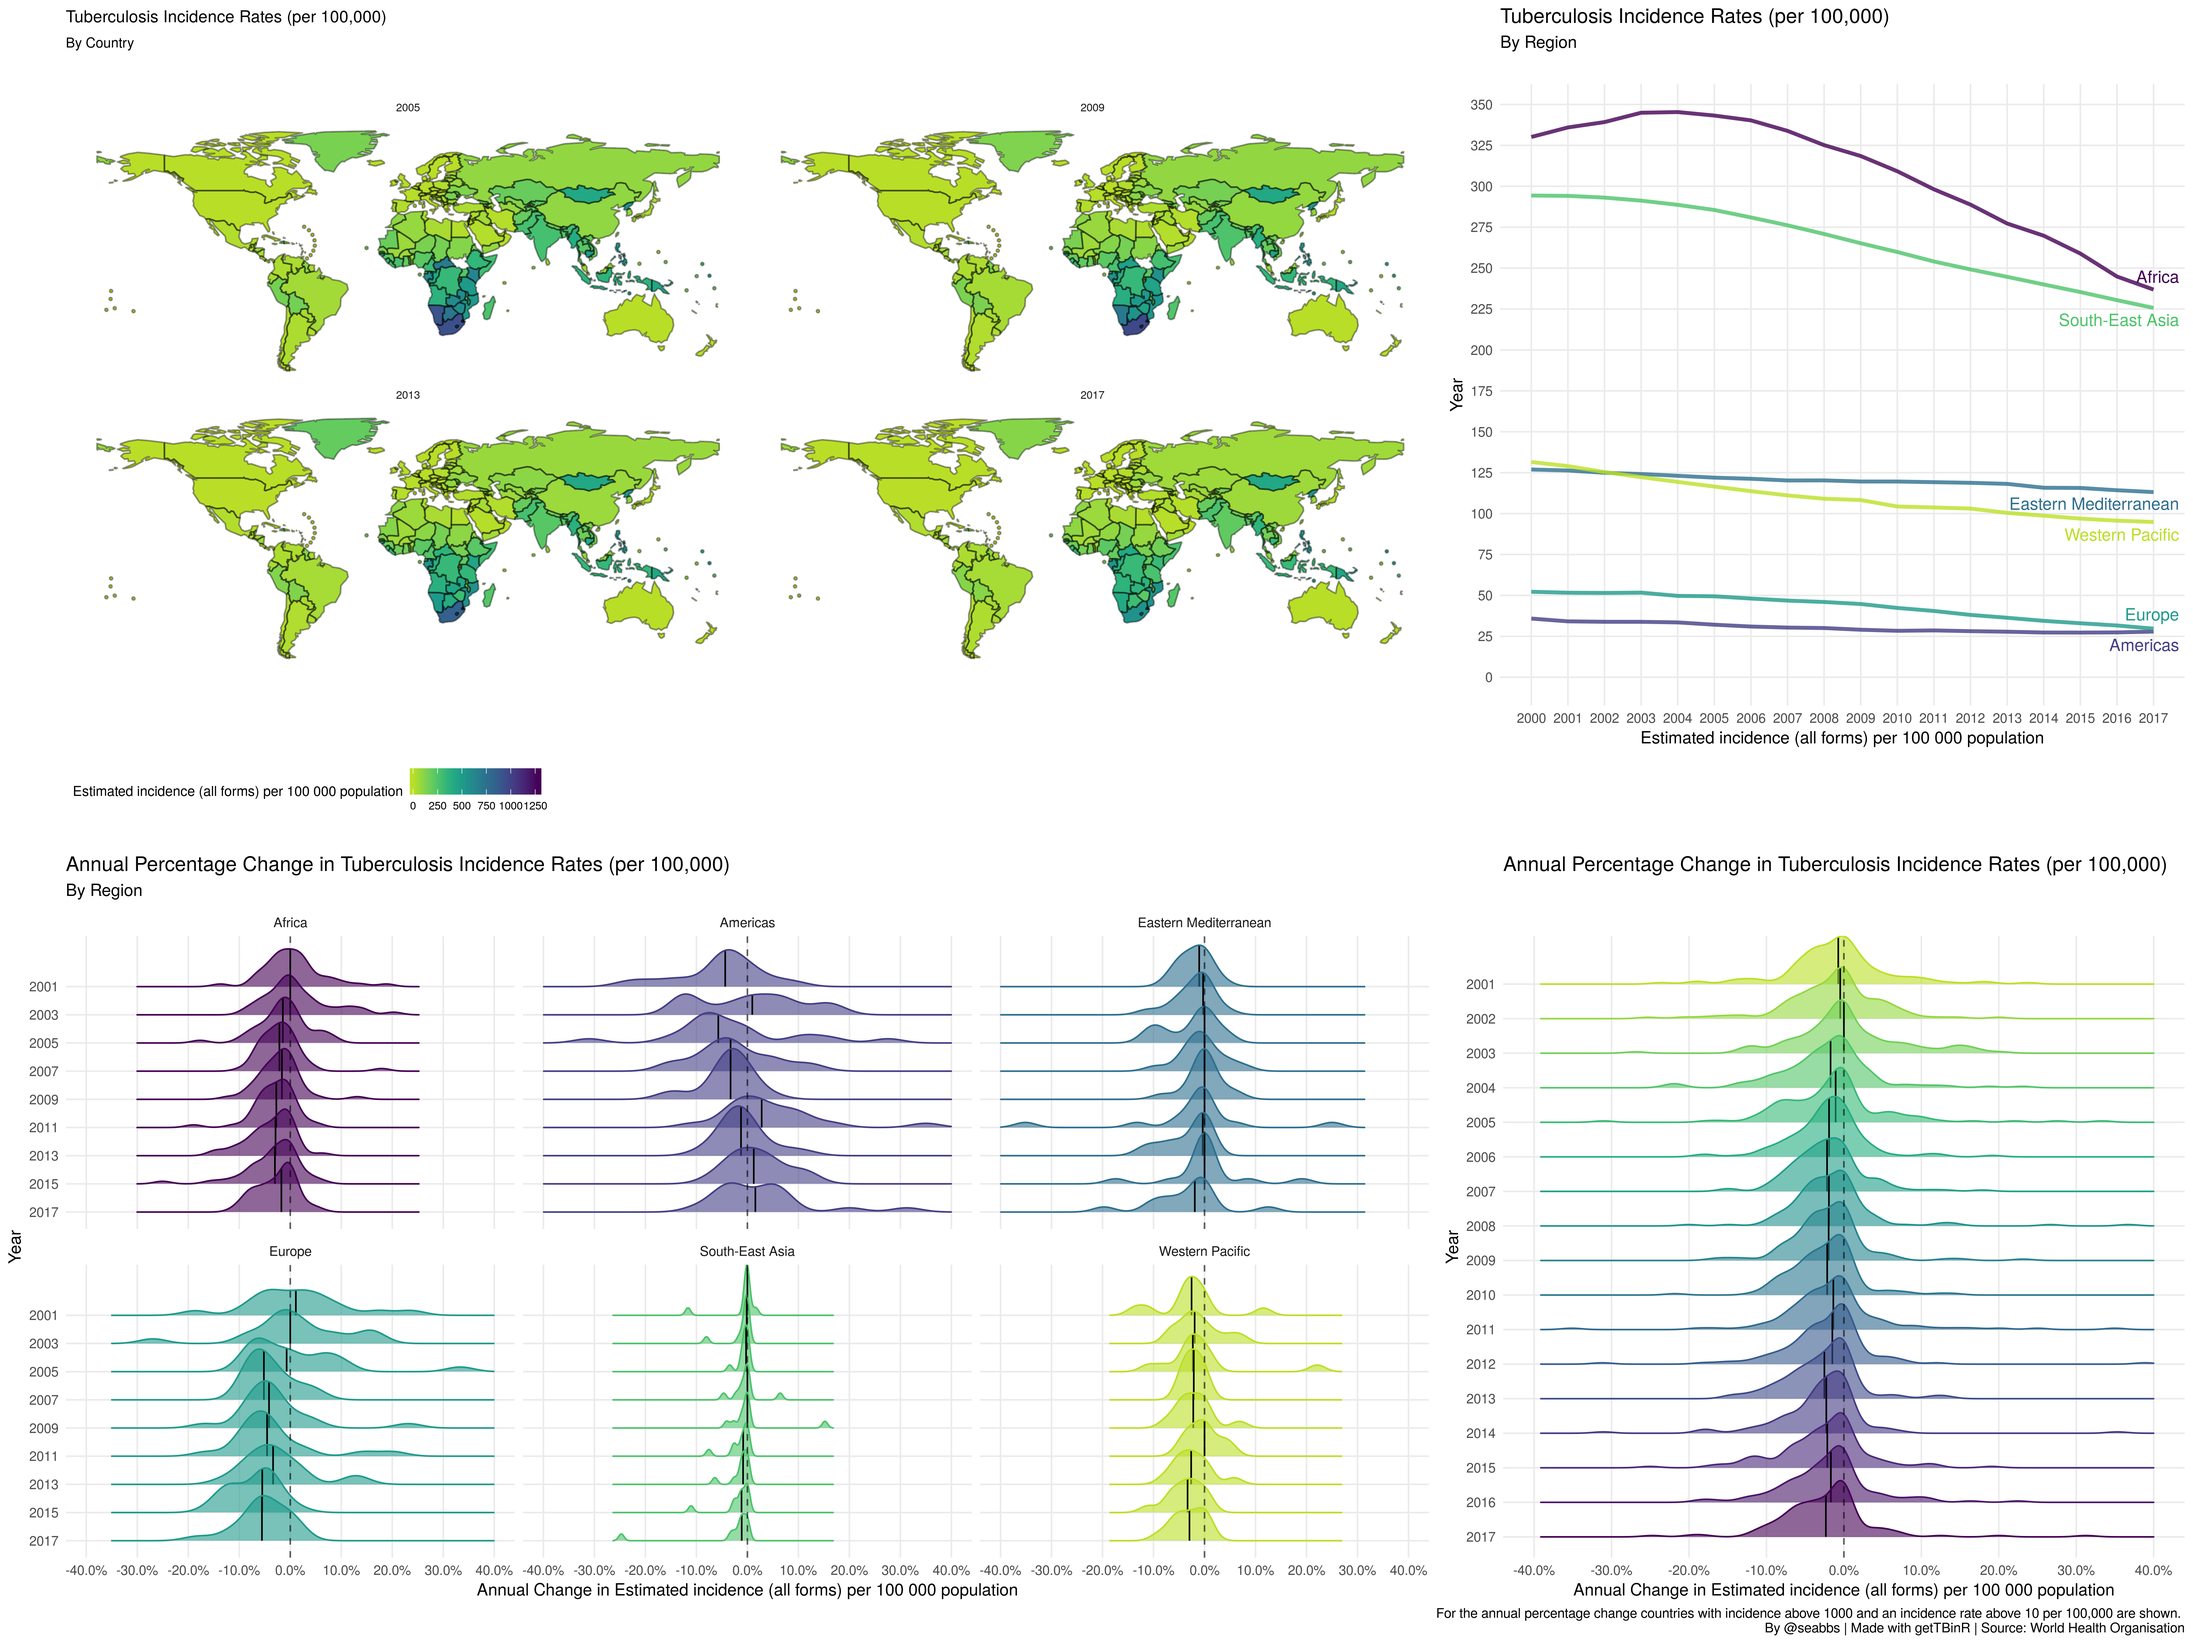
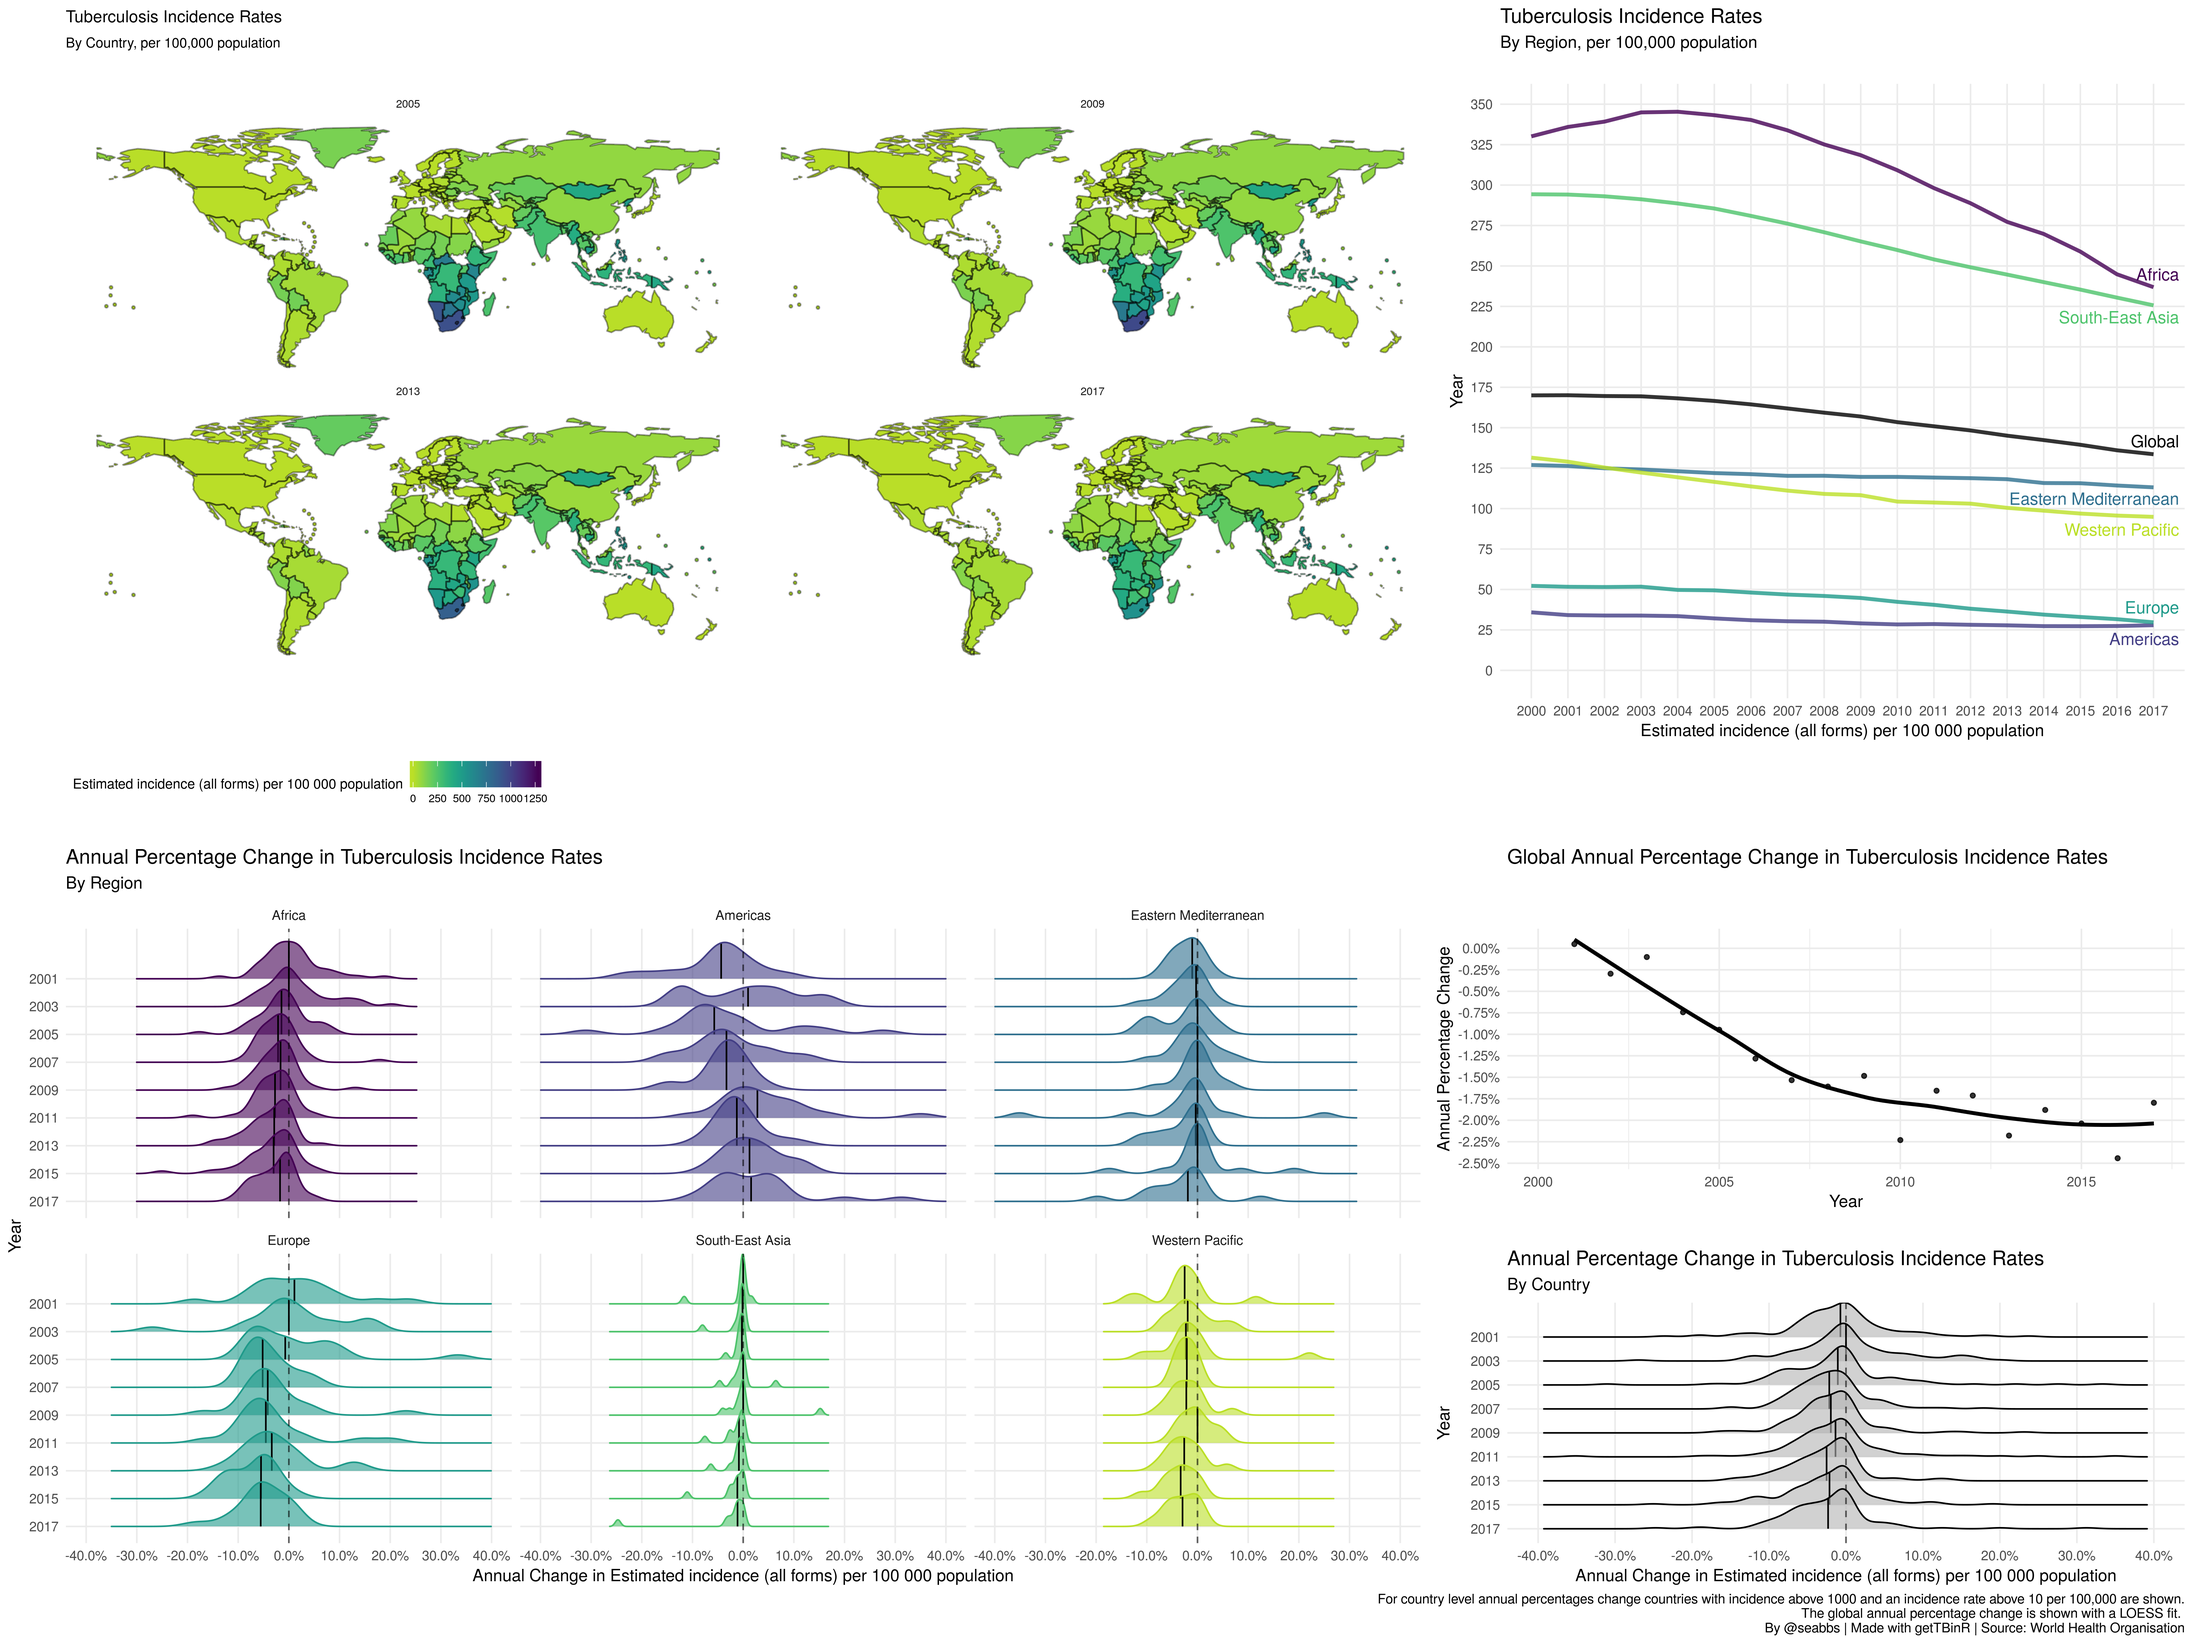
updated getTBinR update post with improved narrative and summary stats

diff --git a/content/post/2018-09-28-gettbinr-5-5.md b/content/post/2018-09-28-gettbinr-5-5.md
@@ -1,15 +1,17 @@
 ---
 title: getTBinR 0.5.5 now on CRAN - 2017 data.
 author: ~
-date: '2018-09-27'
+date: '2018-09-28'
 slug: gettbinr-5-5
 twitterImg: img/getTBinR/storyboard-5-5.png
-description: "getTBinR version 0.5.5 now with 2017 data, smarter defaults and better docs. What has changed in 2017?"
+description: "getTBinR version 0.5.5 now with 2017 data, smarter defaults and better docs. Over 10 million estimated cases of TB in 2017, with only a 1.8% decrease in incidence rates compared to 2016. Explore the data to see what else has changed!"
 categories: ["R"]
 tags: ["data analysis", "data visualisation", "rstats", "TB", "WHO", "getTBinR", "infectious disease"]
 ---
 
 [`getTBinR 0.5.5`](https://www.samabbott.co.uk/getTBinR/) is now on CRAN and should be available on a mirror near you shortly! This update is mainly about highlighting the availability of TB data for 2017, although some small behind the scenes changes were required to get the code set up going forward for yearly updates. A few more plotting options have been added, along with the corresponding tests (definitely the most exciting news). The full changelog is below along with a short example highlighting some of the changes in the 2017 data.
+
+The main message from the 2017 data is that in 2017 there were again over 10 million estimated TB cases globally with only a 1.8% decrease in incidence rates compared to 2016. Over the last 10 years progress has been made with an average of a 1.9% decrease in TB incidence rates year on year. However there is little evidence of an increase in the rate that TB incidence rates are falling, with incidence rates forecast to remain at over 100 per 100,000 for the next 10 years if progress is made at the same rate as in the last decade.
 
 ## Feature updates
 
@@ -25,7 +27,7 @@ tags: ["data analysis", "data visualisation", "rstats", "TB", "WHO", "getTBinR",
 
 ## Example: Changes in TB incidence rates in 2017
 
-The code below quickly explores the updated data by first plotting the annual change in TB incidence rates over time both overall and by region. The trend in incidence rates is then explored using country and regional level TB incidence rates. See [here](https://www.samabbott.co.uk/img/getTBinR/storyboard-5-5.png) for a full size version of the storyboard.
+The code below quickly explores the updated data by first estimating global incidence rates and the annual change between years. The country level annual changes in TB incidence rates are then plotted, first globally and then by region. Finally, the trend in incidence rates is explored using country, regional and global level TB incidence rates. See [here](https://www.samabbott.co.uk/img/getTBinR/storyboard-5-5.png) for a full size version of the storyboard.
 
 ```r
 ## Get required packages - managed using pacman
@@ -40,9 +42,46 @@ p_load("forcats")
 p_load("ggridges")
 p_load_gh("thomasp85/patchwork")
 
-##Pull TB data and remove countries with fewer than 10 cases per 100,000 or 1000 cases overall (to reduce noise)
+##Pull TB data 
 tb_burden <- get_tb_burden() 
 
+
+## Summarise global changes
+global_tb <- tb %>% 
+  group_by(year) %>% 
+  summarise_at(.vars = c("e_inc_num", "e_pop_num"), ~ sum(., na.rm = TRUE)) %>% 
+  mutate(inc_rate = e_inc_num / e_pop_num * 1e5,
+         per_change_inc = (inc_rate - lag(inc_rate)) / lag(inc_rate)) %>% 
+  mutate(g_whoregion = "Global",
+         label = ifelse(year == max(year), g_whoregion, ""))
+
+
+
+global_tb
+
+## TB in 2017
+tb_2017 <- global_tb %>% 
+  filter(year == 2017)
+
+tb_2017
+
+## Global annual change
+global_annual_change <- ggplot(global_tb, aes(year, per_change_inc)) +
+  geom_smooth(se = FALSE, col = "black", size = 1.2, alpha.line = 0.7) +
+  geom_point(size = 1.2, alpha = 0.8, col = "black") +
+  scale_y_continuous(label = scales::percent, minor_breaks = NULL, breaks = seq(-0.025, 0, 0.0025)) +
+  theme_minimal() +
+  labs(
+    y = "Annual Percentage Change",
+    x = "Year",
+    title = "Global Annual Percentage Change in Tuberculosis Incidence Rates",
+    caption = ""
+    
+  )
+
+global_annual_change
+
+## Remove countries with incidence below 1000 or incidence rates below 10 per 100,000 to reduce noise and cal country level annual change.
 countries_with_tb_burden <- tb_burden %>% 
   filter(year == 2017,
          e_inc_100k > 10,
@@ -75,24 +114,29 @@ plot_annual_change <- function(df, strat = NULL, subtitle = NULL, years = 2000:2
     theme(legend.position = "none") +
     labs(x = paste0("Annual Change in ", search_data_dict("e_inc_100k")$definition),
          y = "Year",
-         title = "Annual Percentage Change in Tuberculosis Incidence Rates (per 100,000)",
+         title = "Annual Percentage Change in Tuberculosis Incidence Rates",
          subtitle = subtitle,
-         caption = "For the annual percentage change countries with incidence above 1000 and an incidence rate above 10 per 100,000 are shown. \n By @seabbs | Made with getTBinR | Source: World Health Organisation")
+         caption = "")
   
   return(dist)
 }
 
-## Overall annual change
-overall <- plot_annual_change(tb_annual_change, "year",
-                              years = 2001:2017) 
-## Regional annual change
+## Overall country level annual change
+overall <- plot_annual_change(tb_annual_change, NULL,
+                              years = seq(2001, 2017, 2), subtitle = "By Country") 
+
+overall
+
+## Regional country level annual change
 region <-  plot_annual_change(tb_annual_change, "Region",
                               subtitle = "By Region", 
                               years = seq(2001, 2017, 2)) + 
   facet_wrap(~Region) +
   labs(caption = "")
 
-## Regional TB incidence rates over time
+region
+
+## Regional and Global TB incidence rates over time
 regional_incidence <- tb_burden %>% 
   group_by(g_whoregion, year) %>% 
   summarise(inc = sum(e_inc_num, na.rm = TRUE), pop = sum(e_pop_num, na.rm = TRUE)) %>% 
@@ -113,19 +157,28 @@ regional_incidence <- tb_burden %>%
                   min.segment.length = 10) +
   labs(x = search_data_dict("e_inc_100k")$definition,
        y = "Year",
-       title = "Tuberculosis Incidence Rates (per 100,000)",
-       subtitle = "By Region")
+       title = "Tuberculosis Incidence Rates",
+       subtitle = "By Region, per 100,000 population") +
+  geom_line(data = global_tb, aes(col = NULL), alpha = 0.8, size = 1.2) +
+  geom_text_repel(data = global_tb,
+                  aes(label = label, col = NULL),
+                  nudge_x = 2,
+                  nudge_y = 8,
+                  na.rm = TRUE)
 
 ## Map global TB incidence rates for 2017 using getTBinR
 map <- map_tb_burden(year = c(2005, 2009, 2013, 2017), facet = "year") +
   theme(strip.background = element_blank()) +
   labs(caption = "",
-       title = "Tuberculosis Incidence Rates (per 100,000)",
-       subtitle = "By Country")
+       title = "Tuberculosis Incidence Rates",
+       subtitle = "By Country, per 100,000 population")
 
 ## Compose storyboard
 storyboard <- (map + regional_incidence + plot_layout(widths = c(2, 1))) /
-  (region + overall+ plot_layout(widths = c(2, 1))) +
+  (region + (global_annual_change /
+               overall + labs(caption = "For country level annual percentages change countries with incidence above 1000 and an incidence rate above 10 per 100,000 are shown.
+                    The global annual percentage change is shown with a LOESS fit. 
+                    By @seabbs | Made with getTBinR | Source: World Health Organisation")) + plot_layout(widths = c(2, 1))) +
   plot_layout(widths = c(1, 1))
 
 ## Save storyboard
@@ -133,6 +186,6 @@ ggsave("storyboard.png",
        storyboard, width = 20, height = 15, dpi = 330)
 ```
 
-![getTBinR 0.5.4 storyboard](/img/getTBinR/storyboard-5-5.png)
+![getTBinR 0.5.5 storyboard](/img/getTBinR/storyboard-5-5.png)
 
 For other examples of using `getTBinR` to visualise the WHO TB data see [my](https://gist.github.com/seabbs) gists, previous blog [posts](https://www.samabbott.co.uk/tags/who/), and the [`getTBinR` website](https://www.samabbott.co.uk/getTBinR/).
